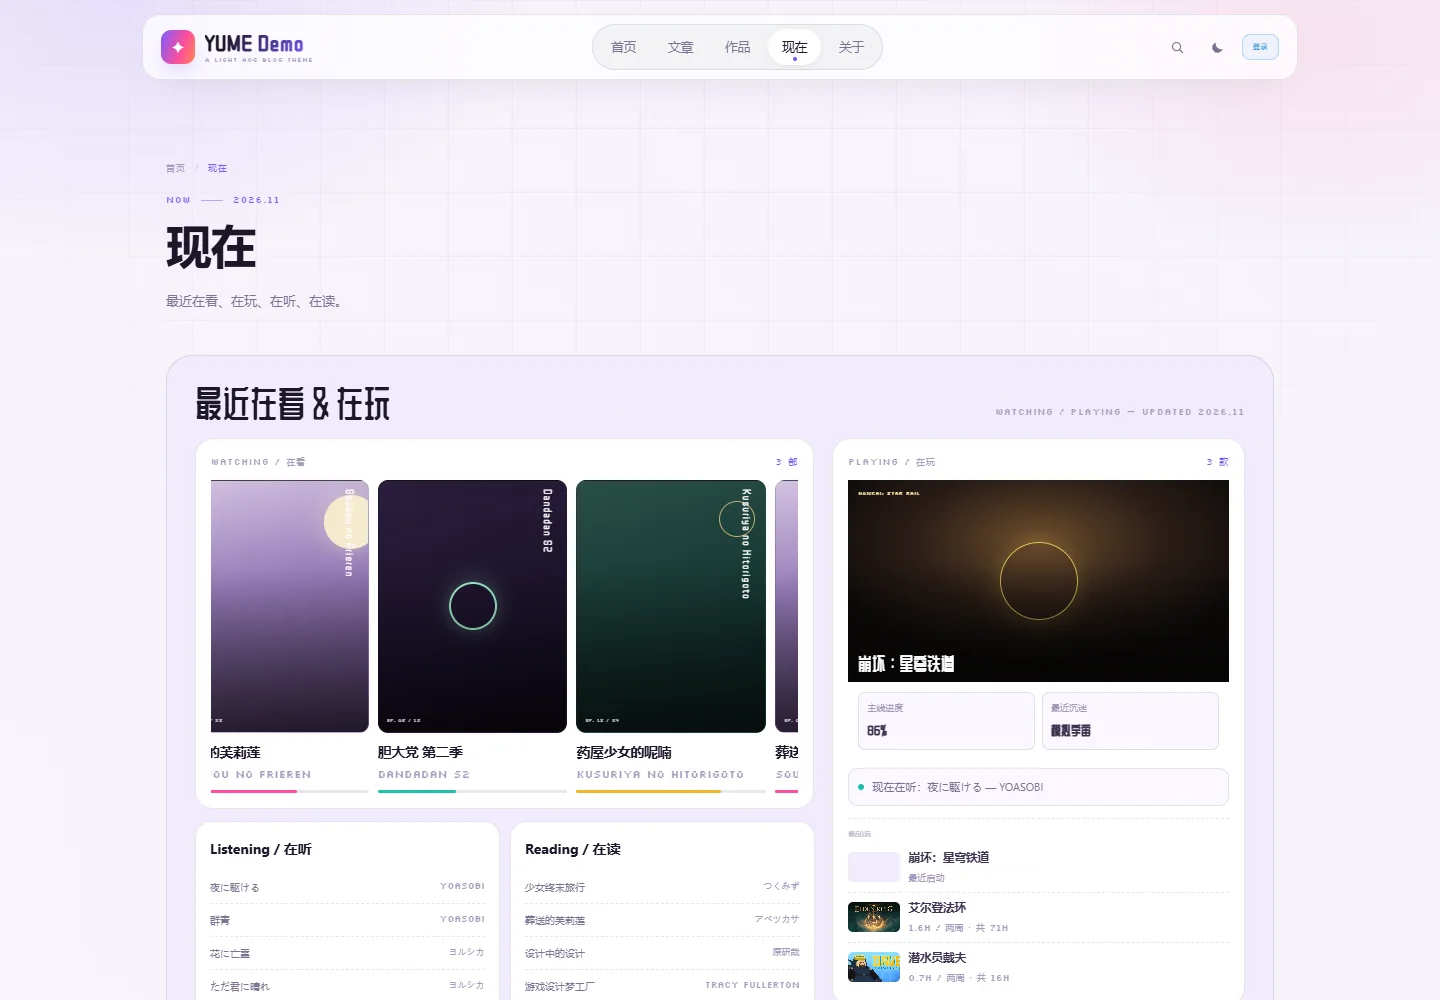
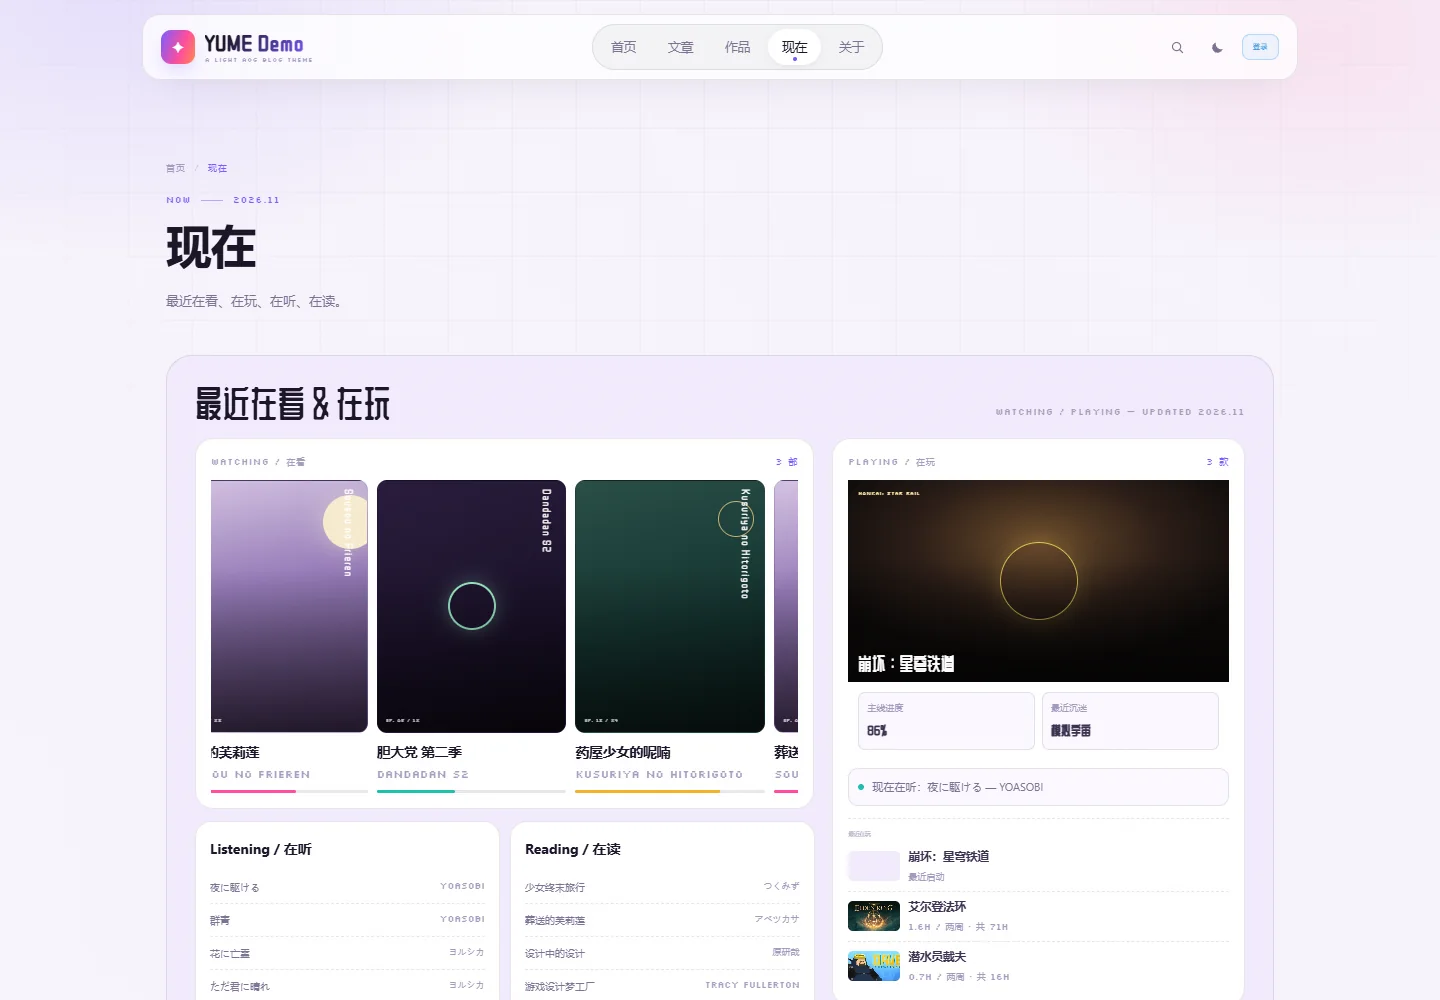
docs: regenerate light screenshots and README

diff --git a/README.md b/README.md
@@ -2,7 +2,7 @@
 
 > 一个面向 ACG / 游戏 / 代码个人博客的 Typecho 主题
 
-YUME 是一个轻量、可定制、偏二次元气质的 Typecho 主题。默认浅色，支持深色模式、KOOK 登录、Steam / Bilibili / 网易云 / GitHub 数据、动态、友链、归档热力图、图片灯箱、阅读进度、代码高亮和 PWA。
+YUME 是一个轻量、可定制、偏二次元气质的 Typecho 主题。默认浅色，强调薰衣草紫与粉色纸感排版，适合记录文章、作品、游戏、动画与日常。
 
 当前版本：**1.0.0**
 
@@ -15,95 +15,238 @@ YUME 是一个轻量、可定制、偏二次元气质的 Typecho 主题。默认
 - 不包含主题源代码
 - 不包含 YumePanel 源代码
 - 不包含部署配置
-- 截图使用独立的 `YUME Demo` 示例站点生成，不包含个人站点数据
+- 截图使用独立的 `YUME Demo` 示例站点生成
+- 所有截图均为默认浅色模式
+- 不包含个人站点数据
 
-源代码位于私有仓库 `aayorishy/Typecho-Yume-Dev`，不在公开仓库发布。
+源代码位于私有仓库：
 
-## 特性
+```text
+aayorishy/Typecho-Yume-Dev
+```
 
-- 浅色 / 深色 / 跟随系统
-- 薰衣草紫 + 粉色 ACG 视觉
-- 响应式布局，移动端底部导航
-- 首页 Hero / 文章 / 作品 / 现在 / KOOK / 关于
-- 文章阅读进度、目录、代码高亮、代码复制
+## 主题特性
+
+### 页面与内容
+
+- 首页 Hero、文章、作品、现在、KOOK、关于
+- 文章阅读进度、目录、上一篇 / 下一篇
 - 图片灯箱、画廊切换、图片说明
+- 代码高亮、代码复制、代码行号
 - 脚注、边注、剧透折叠
 - 归档写作热力图
 - 标签云权重
 - 随机文章
+- 友链申请、审核与管理
+- 动态时间线
+- 个人资料编辑
 - 作品页 GitHub 截图封面
-- 作品页每次显示 6 个，按钮加载更多
-- 后台可选择、排序作品并设置自定义截图
-- KOOK 登录、KOOK 头像 / 昵称
+- 作品页每 6 个一组，按钮加载更多
+
+### 外观
+
+- 默认浅色，支持深色与跟随系统
+- 薰衣草紫 + 粉色 ACG 视觉
+- 响应式布局
+- 移动端底部导航
+- 可配置内容宽度、圆角、密度、字号
+- 自定义 CSS / JavaScript
+- 原生 Typecho 外观设置分类面板
+- 单保存按钮，保存后即时生效
+
+### 数据与登录
+
+- KOOK 登录：昵称#编号 / 用户 ID / OAuth2
+- KOOK 头像与昵称
 - KOOK 社区小工具
 - Steam 最近游戏
 - Bilibili 追番
 - 网易云在听
 - GitHub 作品
-- 友链申请 / 审核 / 管理
-- 动态时间线
-- 个人资料编辑
-- PWA manifest / Service Worker / 离线页
-- 原生 Typecho 外观设置，分类面板，单保存按钮
-- 本地字体子集
+- 友链 Feed 检测
+- 动态图片上传
+
+### 性能与 SEO
+
+- 字体子集化（WOFF2）
+- ZCOOL 庆科黄油体 + Silkscreen 像素体
 - 本地 Prism，不依赖外部 CDN
+- 图片懒加载
+- CSS / JS 版本号缓存
+- PWA manifest / Service Worker / 离线页
+- canonical
+- Open Graph / Twitter Card
+- Article JSON-LD
+- BreadcrumbList
+- RSS / sitemap
+- 文章发布时间 / 修改时间
+- favicon / apple-touch-icon
+- 清理重复的 Typecho head 输出
 
 ## 截图
 
-| 首页 | 深色 |
+| 首页 | 移动端 |
 | --- | --- |
-| ![首页](docs/screenshots/home.webp) | ![深色](docs/screenshots/home-dark.webp) |
+| ![首页](docs/screenshots/home.webp) | ![移动端](docs/screenshots/home-mobile.webp) |
 
-| 文章 | 现在 |
+| 文章 | 作品 |
 | --- | --- |
-| ![文章](docs/screenshots/article.webp) | ![现在](docs/screenshots/now.webp) |
+| ![文章](docs/screenshots/article.webp) | ![作品](docs/screenshots/works.webp) |
 
-| 作品 |
-| --- |
-| ![作品](docs/screenshots/works.webp) |
-
-| 关于 | 动态 |
+| 现在 | 关于 |
 | --- | --- |
-| ![关于](docs/screenshots/about.webp) | ![动态](docs/screenshots/moments.webp) |
+| ![现在](docs/screenshots/now.webp) | ![关于](docs/screenshots/about.webp) |
 
-| 后台设置 |
-| --- |
-| ![设置](docs/screenshots/settings.webp) |
+| 动态 | 后台设置 |
+| --- | --- |
+| ![动态](docs/screenshots/moments.webp) | ![设置](docs/screenshots/settings.webp) |
 
-| 移动端 |
-| --- |
-| ![移动端](docs/screenshots/home-mobile.webp) |
-
-## 环境
+## 环境要求
 
 - Typecho **1.3+**
 - PHP **8.1+**
 - 推荐 PHP 8.3 / 8.4
 - 推荐开启 OPcache
 - 推荐 Nginx 或 Apache
-- KOOK 登录需要 **MoePanel**
-- YumePanel 是主题配套插件，负责友链与动态
+- KOOK 登录需要 MoePanel
+- YumePanel 是主题配套插件
 
 ## 安装
 
-完整安装说明、部署配置和源代码位于私有开发仓库：
+完整安装说明、源代码和部署配置位于私有开发仓库：
 
 ```text
 aayorishy/Typecho-Yume-Dev
 ```
 
-`main` 分支不提供代码下载。
+安装目录：
+
+```text
+usr/themes/yume/
+usr/plugins/YumePanel/
+/sw.js
+```
+
+启用顺序：
+
+1. 后台 → 外观 → 启用 YUME
+2. 后台 → 插件 → 启用 YumePanel
+3. 后台 → 外观 → 设置外观 → 保存设置
+4. 将 `theme/sw.js` 复制到站点根目录
+
+## 外观设置
+
+```text
+站点身份
+首页第一眼
+关于与资料
+外观配色
+字体排版
+首页模块
+作品页
+页脚与备案
+社交与登录
+外部数据
+高级
+```
+
+自定义 CSS / JavaScript 在「高级」中。
+
+## 作品页
+
+GitHub 项目封面优先级：
+
+```text
+后台自定义截图
+  ↓
+GitHub README 第一张图片
+  ↓
+GitHub OpenGraph 封面
+  ↓
+主题渐变卡片
+```
+
+后台「作品页」支持：
+
+- 选择显示哪些 GitHub 项目
+- 调整项目顺序
+- 配置自定义截图 URL
+- 自定义截图优先于 GitHub README
+
+作品页初始显示 6 个，点击「加载更多」显示下一组。
+
+## KOOK 登录
+
+KOOK 登录由 MoePanel 提供：
+
+- 验证码登录
+- OAuth2 登录
+- 站主 KOOK ID 映射到 Typecho 管理员
+- 普通 KOOK 用户只拥有留言权限
+- 普通用户不创建 Typecho 账号
+
+验证码登录失败时检查：
+
+```text
+usr/yume-kook-auth.log
+```
+
+服务器外账号建议使用 OAuth2。
 
 ## 字体
 
-展示与开发版本只使用：
+主题只使用：
 
 ```text
-ZCOOLQingKeHuangYou-Regular
-Silkscreen
+ZCOOLQingKeHuangYou-Regular.subset.woff2
+Silkscreen-Regular.subset.woff2
+Silkscreen-Bold.subset.woff2
 ```
 
-正文使用系统无衬线字体。
+- ZCOOL：标题与展示文字
+- Silkscreen：像素标签与英文小字
+- 正文：系统无衬线字体
+
+## 目录结构
+
+```text
+Typecho-Yume/
+├── README.md
+├── LICENSE
+├── CHANGELOG.md
+├── VERSION
+├── .gitignore
+└── docs/
+    └── screenshots/
+        ├── home.webp
+        ├── cover.webp
+        ├── article.webp
+        ├── works.webp
+        ├── now.webp
+        ├── about.webp
+        ├── moments.webp
+        ├── settings.webp
+        └── home-mobile.webp
+```
+
+## 兼容性
+
+- Typecho 1.3
+- PHP 8.1+
+- SQLite / MySQL
+- 现代浏览器
+- 深色模式
+- `prefers-reduced-motion`
+
+## 更新日志
+
+见 [CHANGELOG.md](CHANGELOG.md)。
+
+## 致谢
+
+- Typecho
+- MoePanel
+- 所有字体作者
 
 ## 版权
 
